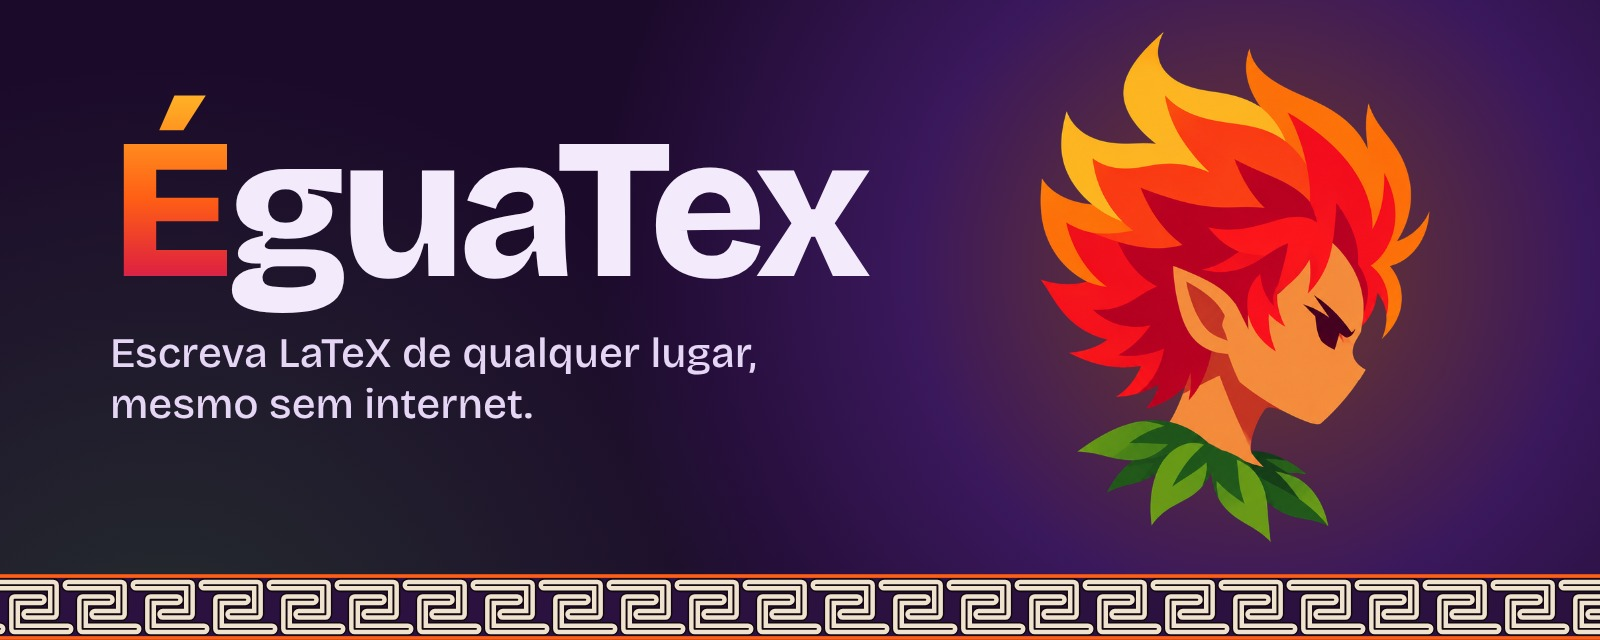
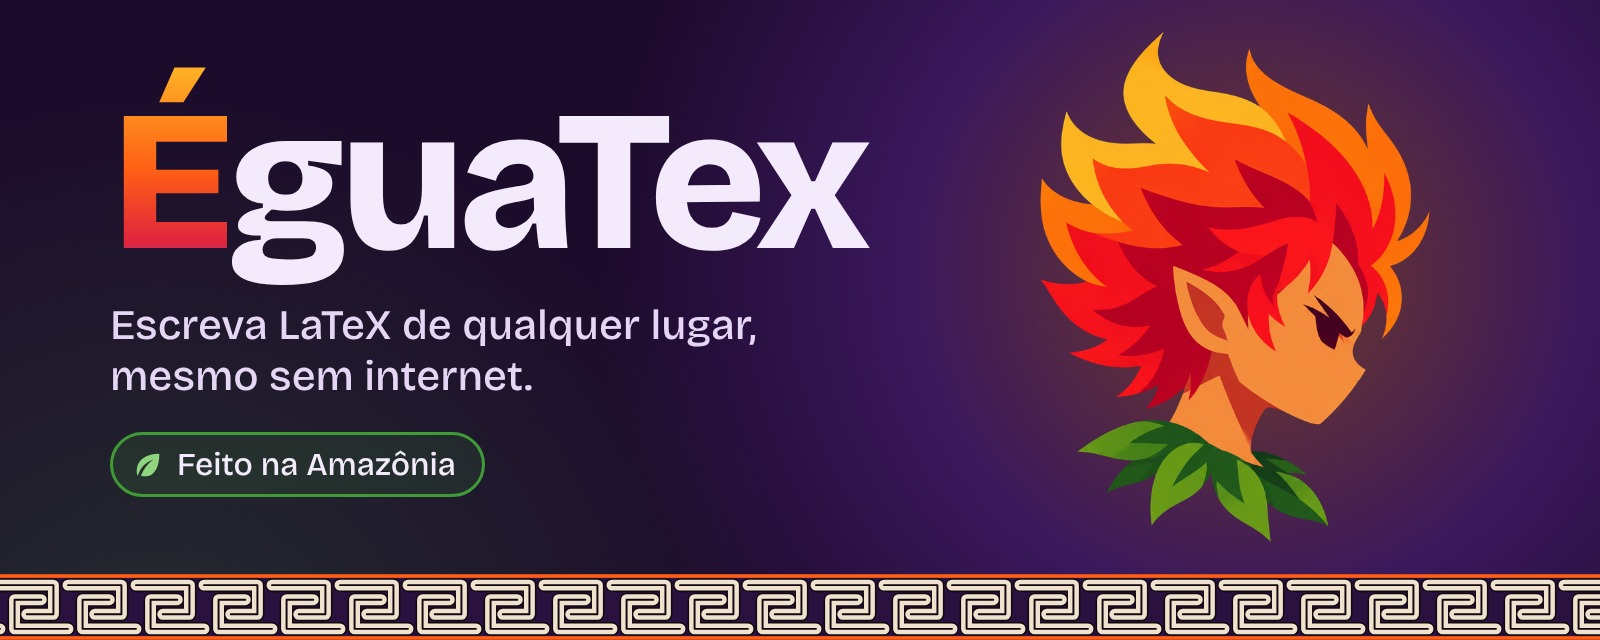
Coloca o selo Feito na Amazônia na capa do README

Changed region(s): [[0.0625, 0.0938, 0.5625, 0.7812]]

diff --git a/README.md b/README.md
@@ -1,6 +1,6 @@
 <p align="center">
   <a href="https://egua-tex.github.io/">
-    <img src="assets/img/banner.jpg" alt="ÉguaTex: Escreva LaTeX de qualquer lugar, mesmo sem internet. Ao lado, a logo do curupira de perfil, com cabelo em chamas e colar de folhas." width="100%">
+    <img src="assets/img/banner.jpg" alt="ÉguaTex: Escreva LaTeX de qualquer lugar, mesmo sem internet. Feito na Amazônia. Ao lado, a logo do curupira de perfil, com cabelo em chamas e colar de folhas." width="100%">
   </a>
 </p>
 
